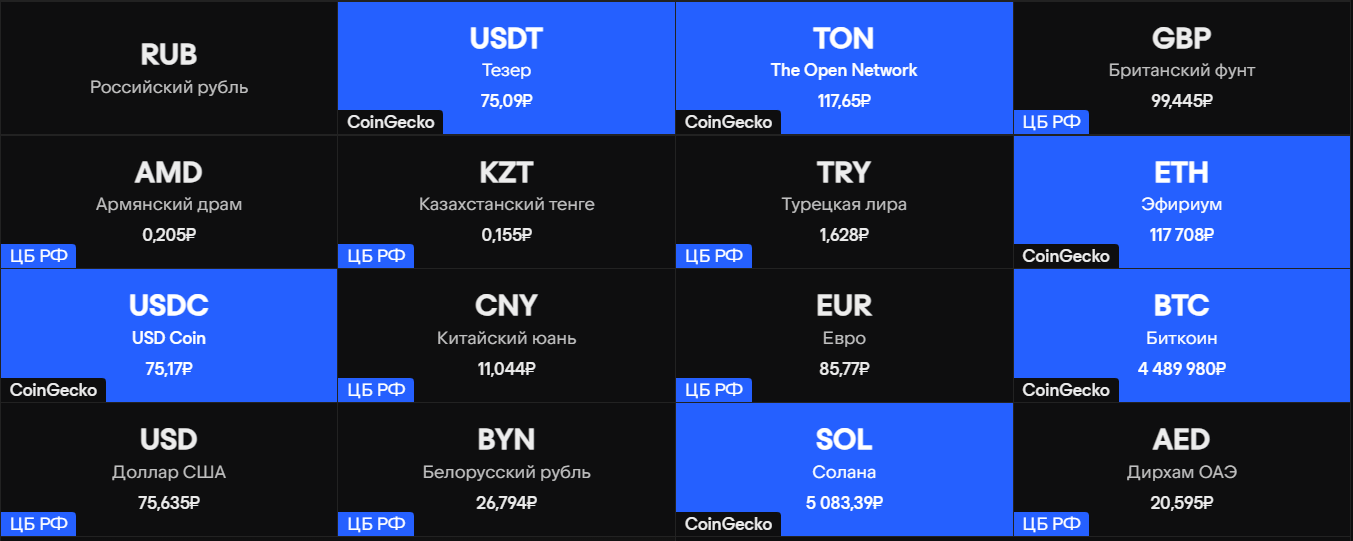
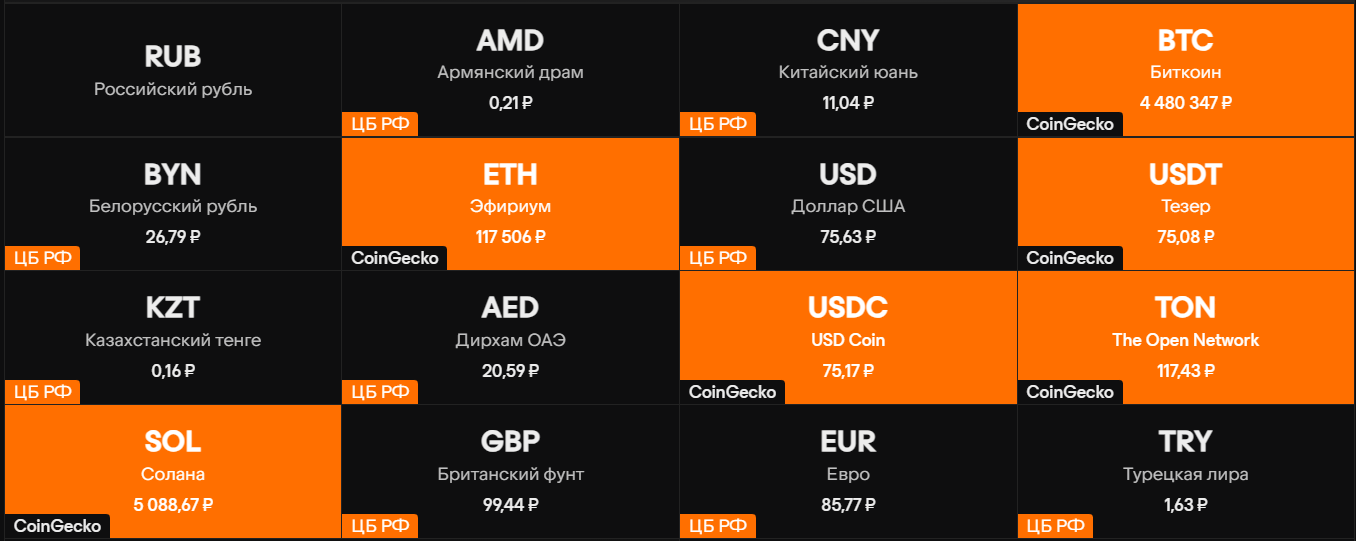
promo

diff --git a/src/app/(external)/(sections)/(about)/slides/switchable/sections/multicurrency/block.tsx b/src/app/(external)/(sections)/(about)/slides/switchable/sections/multicurrency/block.tsx
@@ -4,7 +4,7 @@ import Button from '@/assets/ui-kit/button/button';
 import { DOCS_LINK_COMPANIES_LOGS } from '@/app/docs/(v1)/internal.config';
 import Wallet from '@/assets/ui-kit/icons/wallet';
 import { linksConfig } from '@/config/links.config';
-import { Currency, getRateSourceLabel } from '@/apps/currency/types';
+import { Currency, formatRate, getRateSourceLabel } from '@/apps/currency/types';
 import { useCurrencies } from '@/apps/currency/hooks';
 import clsx from 'clsx';
 import { formatDate, formatDateTime } from '@/assets/utils/date';
@@ -20,7 +20,7 @@ export function CurrencyItem({
         <div className={clsx(styles.item, currency.type === 'crypto' && styles.crypto)}>
             <div className={styles.id}>{currency.id}</div>
             <div className={styles.name}>{currency.name}</div>
-            {currency.id !== 'RUB' && (<div className={styles.rate}>{currency.rate.rate.toLocaleString('ru-RU')}&#8381;</div>)}
+            {currency.id !== 'RUB' && (<div className={styles.rate}>{formatRate(currency)}</div>)}
 
             {currency.id !== 'RUB' && (<div className={styles.source}>{getRateSourceLabel(currency.rate.source, true)}</div>)}
         </div>

diff --git a/src/app/(external)/(sections)/(about)/pins/rates/pin.tsx b/src/app/(external)/(sections)/(about)/pins/rates/pin.tsx
@@ -9,6 +9,7 @@ import { DOCS_LINK } from "@/app/docs/(v1)/internal.config";
 import { useCurrencies } from "@/apps/currency/hooks";
 import { linksConfig } from "@/config/links.config";
 import Spinner from "@/assets/ui-kit/spinner/spinner";
+import { formatRate } from "@/apps/currency/types";
 
 export function Pin({className}: PageBlockProps) {
     const { data: currencies = [], isLoading } = useCurrencies();
@@ -36,7 +37,7 @@ export function Pin({className}: PageBlockProps) {
                         {mixed.slice(0,4).map((currency, index) => (
                             <div key={index} className={styles.item}>
                                 <div className={styles.id}>{currency.id}</div>
-                                {currency.id !== 'RUB' && (<div className={styles.rate}>{currency.rate.rate.toLocaleString('ru-RU')}&#8381;</div>)}
+                                {currency.id !== 'RUB' && (<div className={styles.rate}>{formatRate(currency)}</div>)}
                             </div>
                         ))}
                         <div className={styles.item}>

diff --git a/src/app/platform/(company)/[id]/fm/(main)/new-operation/choose-currency/block.tsx b/src/app/platform/(company)/[id]/fm/(main)/new-operation/choose-currency/block.tsx
@@ -5,7 +5,7 @@ import { useEffect, useState } from 'react';
 import styles from './block.module.scss';
 import { PlatformFormVariants } from '@/app/platform/components/lib/form';
 import { useCurrencies } from '@/apps/currency/hooks';
-import { Currency, getRateSourceLabel } from '@/apps/currency/types';
+import { Currency, formatRate, getRateSourceLabel } from '@/apps/currency/types';
 import { formatDateTime } from '@/assets/utils/date';
 
 const LAST_CURRENCY_KEY = 'kroncl_last_currency';
@@ -95,7 +95,7 @@ export function ChooseCurrencyBlock({
             <>
                 {c.name}<br />
                 <span className={styles.accent}>
-                    {c.rate.rate.toLocaleString('ru-RU')}&#8381;
+                    {formatRate(c)}
                 </span>{' '}
                 на {formatDateTime(c.rate.updated_at)}
                 {c.id !== 'RUB' && (

diff --git a/src/apps/currency/types.ts b/src/apps/currency/types.ts
@@ -36,3 +36,15 @@ export function getRateSourceLabel(source: RateSource, short?: boolean): string 
     }
     return RATE_SOURCE_LABELS[source] || source;
 }
+
+export const formatRate = (currency: Currency): string => {
+    if (currency.type === 'crypto') {
+        return currency.rate.rate.toLocaleString('ru-RU', {
+            maximumFractionDigits: 2,
+        }) + ' ₽';
+    }
+    return currency.rate.rate.toLocaleString('ru-RU', {
+        minimumFractionDigits: 2,
+        maximumFractionDigits: 2,
+    }) + ' ₽';
+};
